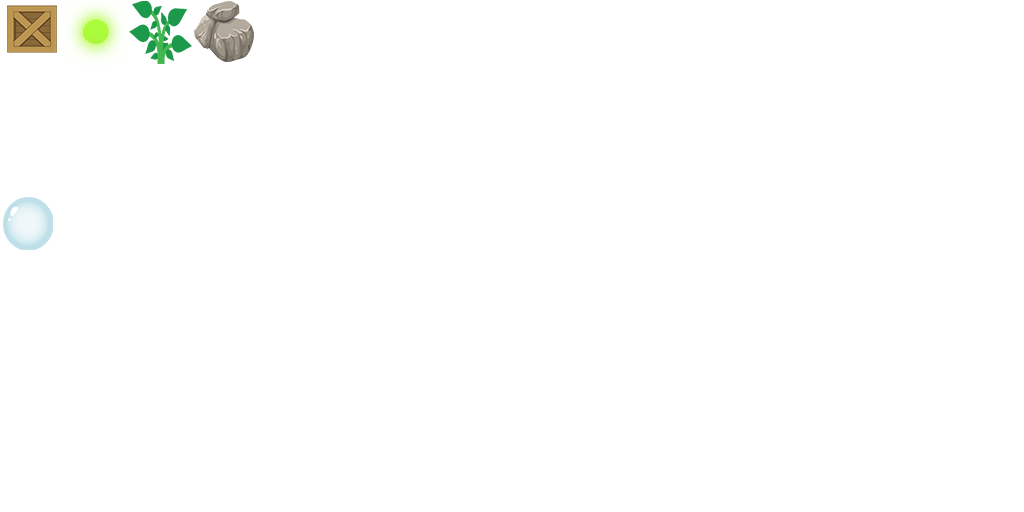
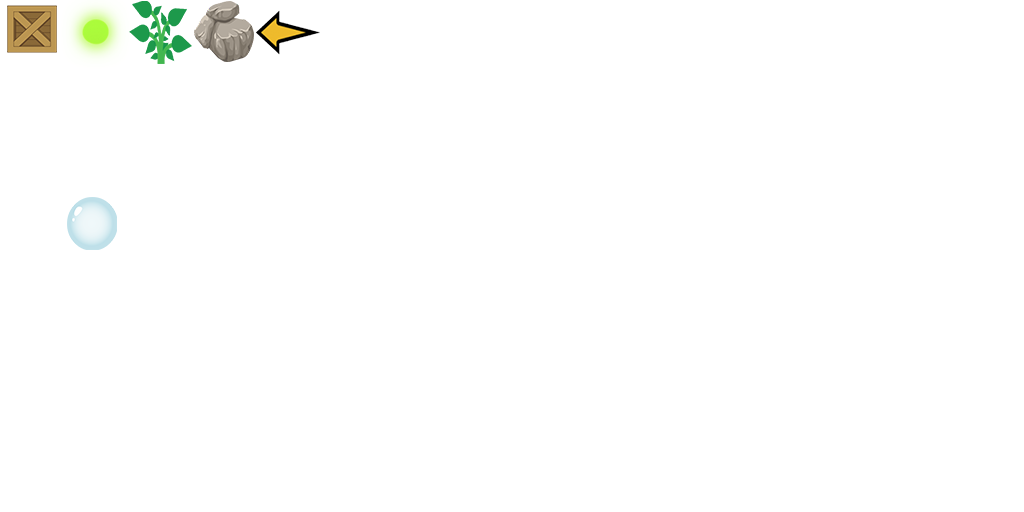
added arrow for show position quest

Changed region(s): [[0.0, 0.375, 0.125, 0.5], [0.25, 0.0312, 0.3125, 0.0938]]

diff --git a/src/game/server/mmocore/sqlwork/questing.cpp b/src/game/server/mmocore/sqlwork/questing.cpp
@@ -262,14 +262,12 @@ void QuestBase::FinishQuest(CPlayer *pPlayer, int QuestID)
 	if(!IsValidQuest(QuestID, ClientID))
 		return;
 	
-	StructQuestData finishQuestData = QuestsData[QuestID];
-	StructQuest &finishQuestPlayer = Quests[ClientID][QuestID];
-
 	// установить статистику квеста
-	finishQuestPlayer.Type = QUESTFINISHED;
-	SJK.UD("tw_accounts_quests", "Type = '%d' WHERE QuestID = '%d' AND OwnerID = '%d'", finishQuestPlayer.Type, QuestID, pPlayer->Acc().AuthID);
+	Quests[ClientID][QuestID].Type = QUESTFINISHED;
+	SJK.UD("tw_accounts_quests", "Type = '%d' WHERE QuestID = '%d' AND OwnerID = '%d'", Quests[ClientID][QuestID].Type, QuestID, pPlayer->Acc().AuthID);
 
 	// выдать награды и написать о завершении
+	StructQuestData finishQuestData = QuestsData[QuestID];
 	for(int i = 0; i < 3; i++)
 	{
 		if(finishQuestData.ItemRewardID[i] <= 0 || finishQuestData.ItemRewardCount[i] <= 0) continue;
@@ -278,9 +276,8 @@ void QuestBase::FinishQuest(CPlayer *pPlayer, int QuestID)
 
 	pPlayer->AddMoney(finishQuestData.Money);
 	pPlayer->AddExp(finishQuestData.Exp);
-	GS()->Chat(-1, "{STR} completed quest [{STR} {STR}]", finishQuestData.StoryLine, GS()->Server()->ClientName(ClientID), finishQuestData.Name);			
+	GS()->Chat(-1, "{STR} completed quest [{STR} {STR}]", GS()->Server()->ClientName(ClientID), finishQuestData.StoryLine, finishQuestData.Name);
 	GS()->ChatDiscord(false, DC_PLAYER_INFO, GS()->Server()->ClientName(ClientID), "Completed quest [{STR} {STR}]", finishQuestData.StoryLine, finishQuestData.Name);
-
 	Job()->SaveAccount(pPlayer, SAVESTATS);
 
 	if(pPlayer->GetCharacter()) 

diff --git a/datasrc/network.py b/datasrc/network.py
@@ -24,7 +24,8 @@ GameMsgIDs = Enum("GAMEMSG", ["TEAM_SWAP", "SPEC_INVALIDID", "TEAM_SHUFFLE", "TE
 WorldType = Enum("WORLD", ["STANDARD", "CUTSCENE", "DUNGEON"])
 TalkedStyles = Enum("TALK_STYLE", ["STANDARD", "AGRESSIVE", "HAPPED"])
 MoodType = Enum("MOOD", ["ANGRY", "AGRESSED_TANK", "AGRESSED_OTHER", "NORMAL", "FRIENDLY", "QUESTING"])
-MmoItems = Enum("ITEMS", ["BOX", "EXPERIENCE", "PLANT", "ORE"])
+MmoPickups = Enum("MMO_PICKUP", ["BOX", "EXPERIENCE", "PLANT", "ORE", "ARROW"])
+MmoProjectiles = Enum("MMO_PROJ", ["BUBBLE"])
 Equip = Enum("EQUIP", ["WINGS", "HAMMER", "GUN", "SHOTGUN", "GRENADE", "RIFLE", "DISCORD", "MINER"])
 Effects = Enum("EFFECT", ["SPASALON", "TELEPORT"])
 AuthCodes = Enum("AUTH", ["ALL_UNKNOWN", "ALL_MUSTCHAR", "ALL_GOOD", "LOGIN_ALREADY", 
@@ -88,7 +89,8 @@ Enums = [
     # mmotee
     Effects,
 	Equip,
-	MmoItems,
+	MmoPickups,
+    MmoProjectiles,
     AuthCodes,
 	MoodType,
 	WorldType,
@@ -328,11 +330,12 @@ Objects = [
 	]),
 
 	# mmotee send pickup item
-	NetObject("MmoItems", [
+	NetObject("MmoPickup", [
 		NetIntAny("m_X"),
 		NetIntAny("m_Y"),
+		NetIntAny("m_Angle"),
 
-		NetEnum("m_Type", MmoItems),
+		NetEnum("m_Type", MmoPickups),
 	]),
     
 	# mmotee send projectile item
@@ -342,7 +345,7 @@ Objects = [
 		NetIntAny("m_VelX"),
 		NetIntAny("m_VelY"),
 
-		NetIntRange("m_Type", 0, 20),
+		NetEnum("m_Type", MmoProjectiles),
 		NetIntRange("m_Weapon", 0, 'NUM_WEAPONS-1'),
 		NetTick("m_StartTick"),
 	]),

diff --git a/src/game/client/render.cpp b/src/game/client/render.cpp
@@ -795,8 +795,6 @@ void CRenderTools::DrawUIBar(ITextRender* pTextRender, CUIRect Rect, vec4 Color,
 
 void CRenderTools::RenderPicItems(CAnimState* pAnim, int RenderNum, vec2 Dir, vec2 Pos)
 {
-	vec2 Position = Pos;
-
 	// first pass we draw the outline
 	// second pass we draw the filling
 	for (int p = 0; p < 2; p++)
@@ -809,19 +807,19 @@ void CRenderTools::RenderPicItems(CAnimState* pAnim, int RenderNum, vec2 Dir, ve
 				switch (RenderNum)
 				{
 				case 19: // items wings
-					RenderWings(pAnim, IMAGE_WINGSIT19, vec2(130, 70), Position, 200, 90);
+					RenderWings(pAnim, IMAGE_WINGSIT19, vec2(130, 70), Pos, 200, 90);
 					break;
 				case 20: // items wings
-					RenderWings(pAnim, IMAGE_WINGSIT20, vec2(120, 50), Position);
+					RenderWings(pAnim, IMAGE_WINGSIT20, vec2(120, 50), Pos);
 					break;
 				case 21: // items wings
-					RenderWings(pAnim, IMAGE_WINGSIT21, vec2(115, 64), Position);
+					RenderWings(pAnim, IMAGE_WINGSIT21, vec2(115, 64), Pos);
 					break;
 				case 22: // items wings
-					RenderWings(pAnim, IMAGE_WINGSIT22, vec2(170, 100), Position, 280, 150);
+					RenderWings(pAnim, IMAGE_WINGSIT22, vec2(170, 100), Pos, 280, 150);
 					break;
 				case 23: // items wings
-					RenderWings(pAnim, IMAGE_WINGSIT23, vec2(115, 70), Position);
+					RenderWings(pAnim, IMAGE_WINGSIT23, vec2(115, 70), Pos);
 					break;
 				}
 			}

diff --git a/datasrc/content.py b/datasrc/content.py
@@ -325,6 +325,8 @@ container.pickups.Add(Pickup("ninja", 90, 90))
 container.pickups.Add(Pickup("gun"))
 container.pickups.Add(Pickup("hammer"))
 
+# mpickups
+
 ###############################################################################
 ###############################################################################
 ###############################################################################
@@ -631,7 +633,8 @@ container.sprites.Add(Sprite("box", set_mmogame, 0, 0, 1, 1))
 container.sprites.Add(Sprite("experience", set_mmogame, 1, 0, 1, 1))
 container.sprites.Add(Sprite("plant", set_mmogame, 2, 0, 1, 1))
 container.sprites.Add(Sprite("ores", set_mmogame, 3, 0, 1, 1))
-container.sprites.Add(Sprite("bubble_fire", set_mmogame, 0, 3, 1, 1))
+container.sprites.Add(Sprite("arrow", set_mmogame, 4, 0, 1, 1))
+container.sprites.Add(Sprite("bubble_fire", set_mmogame, 1, 3, 1, 1))
 
 container.sprites.Add(Sprite("relax_heart", set_relax, 0, 0, 1, 1))
 container.sprites.Add(Sprite("relax_eyes", set_relax, 1, 0, 1, 1))

diff --git a/src/game/server/entities/jobitems.cpp b/src/game/server/entities/jobitems.cpp
@@ -114,8 +114,8 @@ int CJobItems::SwitchToObject(bool MmoItem)
 {
 	switch(m_Type)
 	{
-		case 0/*plants*/: return (MmoItem ? (int)ITEMS_PLANT : (int)PICKUP_HEALTH);
-		case 1/*miner*/: return (MmoItem ? (int)ITEMS_ORE : (int)PICKUP_ARMOR);
+		case 0/*plants*/: return (MmoItem ? (int)MMO_PICKUP_PLANT : (int)PICKUP_HEALTH);
+		case 1/*miner*/: return (MmoItem ? (int)MMO_PICKUP_ORE : (int)PICKUP_ARMOR);
 	}
 	return -1;
 }
@@ -149,7 +149,7 @@ void CJobItems::Snap(int SnappingClient)
 
 	if(SwitchToObject(true) > -1 && GS()->CheckClient(SnappingClient))
 	{
-		CNetObj_MmoItems *pObj = static_cast<CNetObj_MmoItems *>(Server()->SnapNewItem(NETOBJTYPE_MMOITEMS, GetID(), sizeof(CNetObj_MmoItems)));
+		CNetObj_MmoPickup *pObj = static_cast<CNetObj_MmoPickup*>(Server()->SnapNewItem(NETOBJTYPE_MMOPICKUP, GetID(), sizeof(CNetObj_MmoPickup)));
 		if(!pObj)
 			return;
 

diff --git a/src/game/server/player.cpp b/src/game/server/player.cpp
@@ -833,11 +833,9 @@ void CPlayer::SetTalking(int TalkedID, bool ToProgress)
 			return;
 		}
 
-		// если прогресс диалога равен какому то квесту
 		int GivingQuestID = ContextBots::NpcBot[MobID].m_Talk[m_TalkingNPC.m_TalkedProgress].m_GivingQuest;
 		if (GivingQuestID >= 1)
 		{
-			// замораживаем при информации и принятии квеста
 			if (!m_TalkingNPC.m_FreezedProgress)
 			{
 				if (GS()->Mmo()->Quest()->GetQuestState(m_ClientID, GivingQuestID) >= QUESTACCEPT)
@@ -894,7 +892,6 @@ void CPlayer::SetTalking(int TalkedID, bool ToProgress)
 		}
 		GS()->Mmo()->BotsData()->TalkingBotQuest(this, MobID, m_TalkingNPC.m_TalkedProgress, TalkedID);
 	}
-
 	m_TalkingNPC.m_TalkedProgress++;
 }
 

diff --git a/src/game/server/mmocore/items/dropingbonuses.cpp b/src/game/server/mmocore/items/dropingbonuses.cpp
@@ -119,13 +119,14 @@ void CDropingBonuses::Snap(int SnappingClient)
 	// проверка клиента если чекнут дальше не рисуем
 	if(GS()->CheckClient(SnappingClient))
 	{
-		CNetObj_MmoItems *pObj = static_cast<CNetObj_MmoItems *>(Server()->SnapNewItem(NETOBJTYPE_MMOITEMS, GetID(), sizeof(CNetObj_MmoItems)));
-		if(!pObj)
+		CNetObj_MmoPickup* pObj = static_cast<CNetObj_MmoPickup*>(Server()->SnapNewItem(NETOBJTYPE_MMOPICKUP, GetID(), sizeof(CNetObj_MmoPickup)));
+		if (!pObj)
 			return;
 
 		pObj->m_X = (int)m_ActualPos.x;
 		pObj->m_Y = (int)m_ActualPos.y;
-		pObj->m_Type = ITEMS_EXPERIENCE;
+		pObj->m_Type = MMO_PICKUP_EXPERIENCE;
+		pObj->m_Angle = 0;
 		return;
 	}
 

diff --git a/src/game/server/mmocore/items/dropingitem.cpp b/src/game/server/mmocore/items/dropingitem.cpp
@@ -166,13 +166,14 @@ void CDropingItem::Snap(int SnappingClient)
 
 	if(GS()->CheckClient(SnappingClient))
 	{
-		CNetObj_MmoItems *pObj = static_cast<CNetObj_MmoItems *>(Server()->SnapNewItem(NETOBJTYPE_MMOITEMS, GetID(), sizeof(CNetObj_MmoItems)));
+		CNetObj_MmoPickup *pObj = static_cast<CNetObj_MmoPickup*>(Server()->SnapNewItem(NETOBJTYPE_MMOPICKUP, GetID(), sizeof(CNetObj_MmoPickup)));
 		if(!pObj)
 			return;
 
 		pObj->m_X = (int)m_ActualPos.x;
 		pObj->m_Y = (int)m_ActualPos.y;
-		pObj->m_Type = ITEMS_BOX;
+		pObj->m_Type = MMO_PICKUP_BOX;
+		pObj->m_Angle = 0;
 		return;
 	}
 

diff --git a/src/game/client/components/items.h b/src/game/client/components/items.h
@@ -12,7 +12,7 @@ class CItems : public CComponent
 	void RenderLaser(const struct CNetObj_Laser *pCurrent);
 
 	//mmotee
-	void RenderMmoitems(const CNetObj_MmoItems* pPrev, const CNetObj_MmoItems* pCurrent);
+	void RenderMmoPickups(const CNetObj_MmoPickup* pPrev, const CNetObj_MmoPickup* pCurrent);
 	void RenderMmoProjectile(const CNetObj_MmoProj* pCurrent, int ItemID);
 public:
 	virtual void OnRender();
